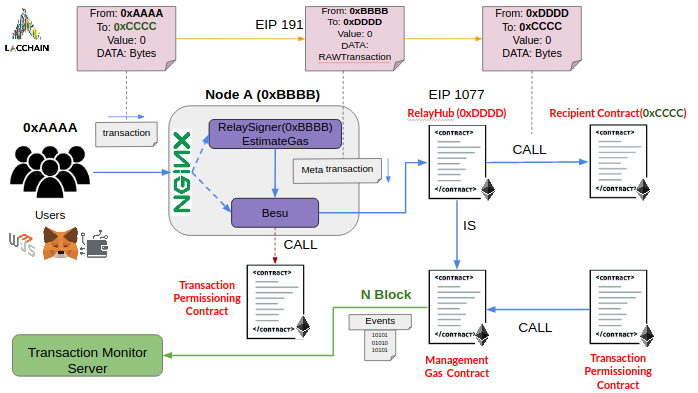
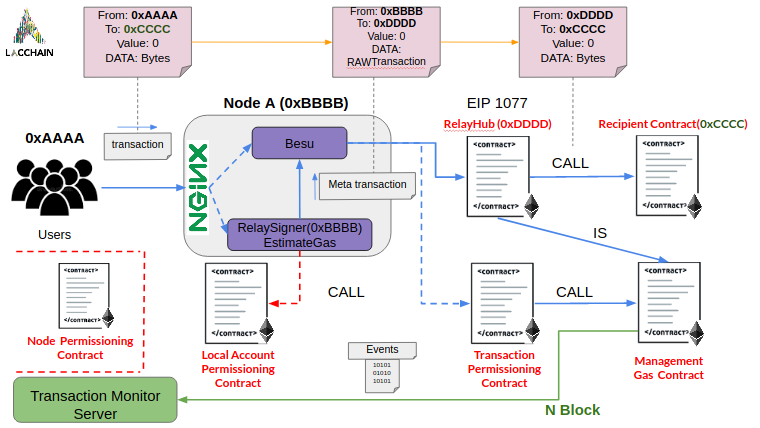
update architecture and interaction with relaysigner

diff --git a/docs/Architecture.md b/docs/Architecture.md
@@ -4,10 +4,9 @@ In this section we will review the different components of the architecture, fun
 
 ![Architecture](images/architecture.png)
 
-## Backend Components
+## Writer Node Components
 
-### Node
-Is a writer node part of the LACChain network. The node is composed by Nginx, relaySigner layer and Hyperledger Besu.
+A writer node is part of the LACChain network. The node is composed by Nginx, relaySigner layer and Hyperledger Besu.
 
 ### Nginx
 Its role is act as reverse proxy and SSL termination (terminate HTTPS traffic from clients), it accepts all transactions to the node and forwards them to the RelaySigner. Direct queries to the node do not go through the RelaySigner, in this case nginx redirects them to the RPC port of Besu.
@@ -34,8 +33,11 @@ This smart contract is deployed on the LACChain network. The role of this contra
 
 Transactions that do not satisfy these rules will be rejected.
 
+### Local Account Permission Smart Contract
+Writer nodes can deploy and customize a Local Account Permissioning Contract, which is a permissioning layer that writer node operators can use to filter (by whitelisting) the reliable addresses (senders) they allow to send transactions to the network through their writer node under rules customizable by the writer node operator, so transactions that do not meet the requirements presented in Section 2.2 are broadcasted to the network. This allows for each writer node operator to define its own rules to allow transactions to be broadcasted to the network by them. For writer nodes exposed to external users, services, and applications, this is extremely important, because writer node operators will be accountable for those transactions if their node broadcasts them, no matter who the original sender is. 
+
 ### Relay Hub Smart Contract
-This contract is based on EIP 1077. The contract receives a transaction whose data field is decoded by RLP to obtain the parameters of the original transaction, which are the address of the original sender, the gas limit, the nonce, the original data sent and the destination address of this data. 
+This contract is based on EIP 1077. The contract receives the user transaction whose data field is decoded by RLP to obtain the parameters of the original transaction, which are the address of the original sender, the gas limit, the nonce, the original data sent and the destination address of this data. 
 
 Then verifies that address which the node of the organization has chosen to send transactions has not reached the gas limit for that block. In case everything is correct, the transaction is forwarded to the recipient contract or create a new smart contract.
 
@@ -78,7 +80,7 @@ Each time a transaction is sent to the network, it is first verified against the
 * Gas limit of transaction must be sufficient to run the entire RelayHub.
 * The sender of the transaction must be the same as indicated by the end user or application that generated the transaction. This means that the user or application must sign which writer node will send its transaction and expiration time for its transaction.  
 
-In case the transaction does not comply these rules then is canceled and will not be executed. 
+In case the transaction does not comply these rules then is canceled and will not be executed and removed from validator's transaction pool. 
 
 After the transaction is verified and accepted, this transaction will go directly to the RelayHub contract where it is verified that the nonce sent is greater than the previous one to guarantee that the transaction is unique and does not repeat itself. Before the transaction is forwarded to a recipient contract, it is verified that the node has not consumed all the assigned GAS, in case the node has enough gas then the transaction is forwarded, after execution in the recipient contract the amount of GAS used is reduced for that address which sent the original transaction.
 
@@ -92,7 +94,7 @@ Protected transactions are those that ensure that a transaction will only be exe
 
 ![private_transactions](images/private_transactions.png)
 
-When a private transaction is sent, it goes through the RelaySigner which call to Management Gas contrat to decrease the gas used, which is 25000. Then it redirects the transaction without modifying to the Besu process and this communicates with the Orion service which share the transaction with the participating nodes of the private transaction.
+When a private transaction is sent, it goes through the RelaySigner which call to Management Gas contrat to decrease the gas used, which is 25000. Then it redirects the transaction without modifying to the Besu process and this communicates with the Orion/Tessera service which share the transaction with the participating nodes of the private transaction.
 
 ### Bad Transactions
 
@@ -128,9 +130,9 @@ This function to obtain the original sender is located in an abstract contract, 
 
 ![recipient](images/recipient.png)
 
-## How send a protected transaction
+## How send a transaction
 
-In order to send a protected transaction, an end user or application that generates and signs the transaction must add two additional parameters to the function parameters of the destination contract. These parameters are as follows:
+In order to send a transaction, an end user or application that generates and signs the transaction must add two additional parameters to the function parameters of the destination contract. These parameters are as follows:
 
 * nodeAddress(type:address): This parameter is the address of the private key that signs the transactions in the RelaySigner or by default it will be the address of the writer node through which the transactions will be sent.
 

diff --git a/docs/Interaction with RelaySigner.md b/docs/Interaction with RelaySigner.md
@@ -8,15 +8,15 @@ It is important to mention that the RelaySigner component will be running on top
 
 ### Pre-existing contracts
 
-For these pre-existing contracts, it is necessary that their address be registered in the account permissioning contract, so that transactions towards these pre-existing contracts are allowed.
+For these pre-existing contracts, it is necessary that their address be registered in the transaction permissioning contract, so that transactions towards these pre-existing contracts are allowed.
 
-To interact with smart contracts that currently are running on the network is not necessary to make any changes. The interaction will be keep directly to the Besu node without going through any of the components of the gas model.
+To interact with smart contracts that currently are running on the network is not necessary to make any changes. The interaction will be keep directly to the Besu node(rpc o websocket) without going through any of the components of the gas model(RelaySigner).
 
 It is worth mentioning that these pre-existing contracts must be adapted to the gas model in order to function in a short time. With which we recommend seeing [How to adapt my contract to this new model](Architecture#how-to-adapt-my contract-to-this-new-model).
 
 ### New Smart Contracts
 
-New smart contracts have to previously change the way to obtain the sender according to the documentation [How to adapt my contract to this new model](Architecture#how-to-adapt-my contract-to-this-new-model)
+New smart contracts that will be deployed have to previously change the way to obtain the sender according to the documentation [How to adapt my contract to this new model](Architecture#how-to-adapt-my contract-to-this-new-model)
 
 ## About Nonce
 
@@ -38,7 +38,7 @@ In case the deployment is successful, the adress of the new deployed contract is
 
 ### After Gas Model deployed
 
-Entities will be able to use the tools or clients to deploy contracts as normal. Instead of pointing directly to the besu it is necessary to point to the RelaySigner.
+Entities will be able to use the tools or clients to deploy contracts as normal. Instead of pointing directly to the besu it is necessary to point to the RelaySigner. They also have to add two parameters at the end of the bytecode, which are the address of the writer node through which the transactions will be sent and the expiration time (timestamp), according to the documentation [How send a transaction](Architecture#how-to-send-a-transaction)
 
 The RelaySigner will be in charge of adding the organization's node signature and sending the transaction for the contract deployment, after the RelaySigner will be listening for events to verify that bytecode has been deployed. In case it has been deployed correctly, it will return an address of the contract deployed in the contractAddress parameter of the transaction receipt.
 
@@ -54,7 +54,7 @@ In case the transaction was successful, the receipt of the transaction would ret
 
 ### After Gas Model Deployed
 
-Entities will be able to use the tools or clients to deploy contracts as normal. Instead of pointing directly to the besu it is necessary to point to the RelaySigner.
+Entities will be able to use the tools or clients to deploy contracts as normal. Instead of pointing directly to the besu it is necessary to point to the RelaySigner. They also have to add two parameters at the end of the bytecode, which are the address of the writer node through which the transactions will be sent and the expiration time (timestamp), according to the documentation [How send a transaction](Architecture#how-to-send-a-transaction)
 
 The RelaySigner will be in charge of adding the organization's node signature and sending the transaction to execute, after the RelaySigner will be listening for events to verify that the transaction has been executed successfully.
 
@@ -95,10 +95,3 @@ In this scenario, the Relay Signer will redirect the call to the Besu node for t
 
 
  
-
-
-
-
-
-
-
